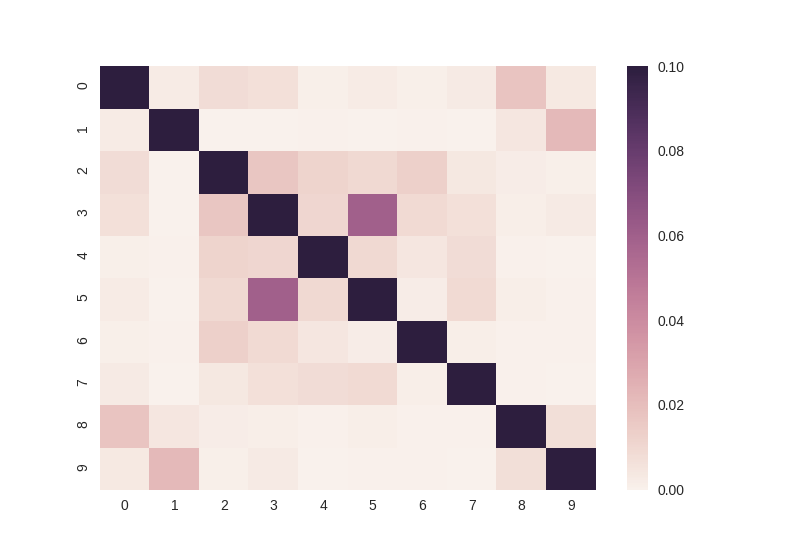
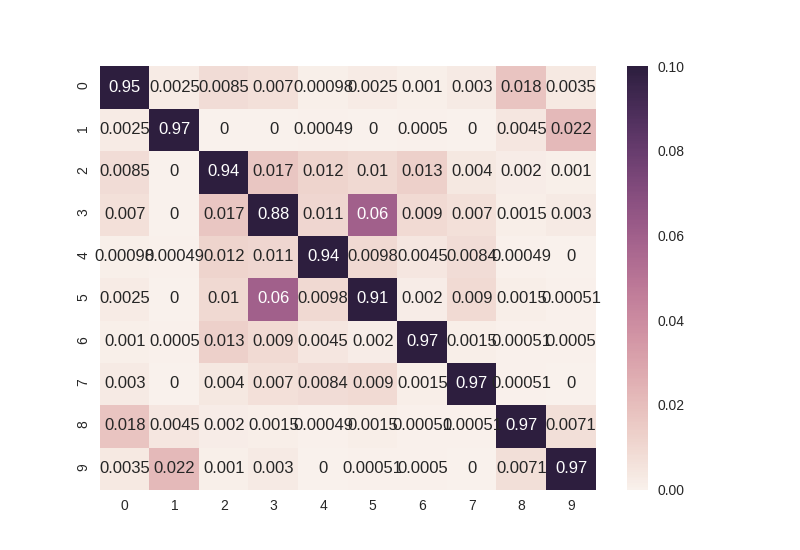
confusion matrix

diff --git a/plots.py b/plots.py
@@ -59,6 +59,7 @@ print('normalized confusion matrix: \n{}'.format(conf_matrix_nrm))
 # plt.set_xticklabels(['plane', 'car', 'bird', 'cat', 'deer', 'dog', 'frog', 'horse', 'ship', 'truck'])
 # plt.savefig(os.path.join(save_path, 'conf_matrix.png'))
 
-ax = sns.heatmap(conf_matrix_nrm, vmin=0, vmax=0.1, annot=True)
+f, ax = plt.subplots(figsize=(12, 10))
+sns.heatmap(conf_matrix_nrm, vmin=0, vmax=0.1, annot=True, ax=ax)
 fig = ax.get_figure()
 fig.savefig(os.path.join(save_path, 'conf_matrix.png'))
